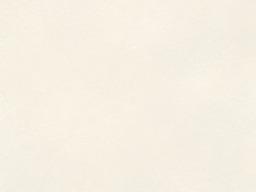
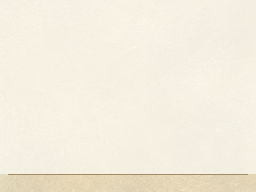
Improve BUUF footer readability with opaque paper backing

Changed region(s): [[0.0, 0.9062, 1.0, 1.0]]

diff --git a/tools/buuf_theme.py b/tools/buuf_theme.py
@@ -179,7 +179,14 @@ def build_buuf(gloam, font_dir, profile, load_tool, compose_audio, download=Fals
         backdrop.save(folder / "backgrounds" / (screen + ".png"), optimize=True)
         # A complete image-backed reading veil; illustration stays visible beneath it.
         paper = tint("buuf", COLORS["background"], amplitude=4).convert("RGBA")
-        paper.putalpha(85 if screen == "top" else 100)
+        coverage = Image.new("L", paper.size, 85 if screen == "top" else 100)
+        # Minimal chrome omits the footer component. Keep the legend readable
+        # through the full-screen reading surface, above the dark leather edge.
+        ImageDraw.Draw(coverage).rectangle((0, 174, 255, 191), fill=255)
+        paper.putalpha(coverage)
+        ImageDraw.Draw(paper).line(
+            (8, 174, 247, 174), fill=(*ImageColor.getrgb(COLORS["line"]), 255)
+        )
         paper.save(
             folder / "backgrounds" / ("material-" + screen + ".png"), optimize=True
         )
